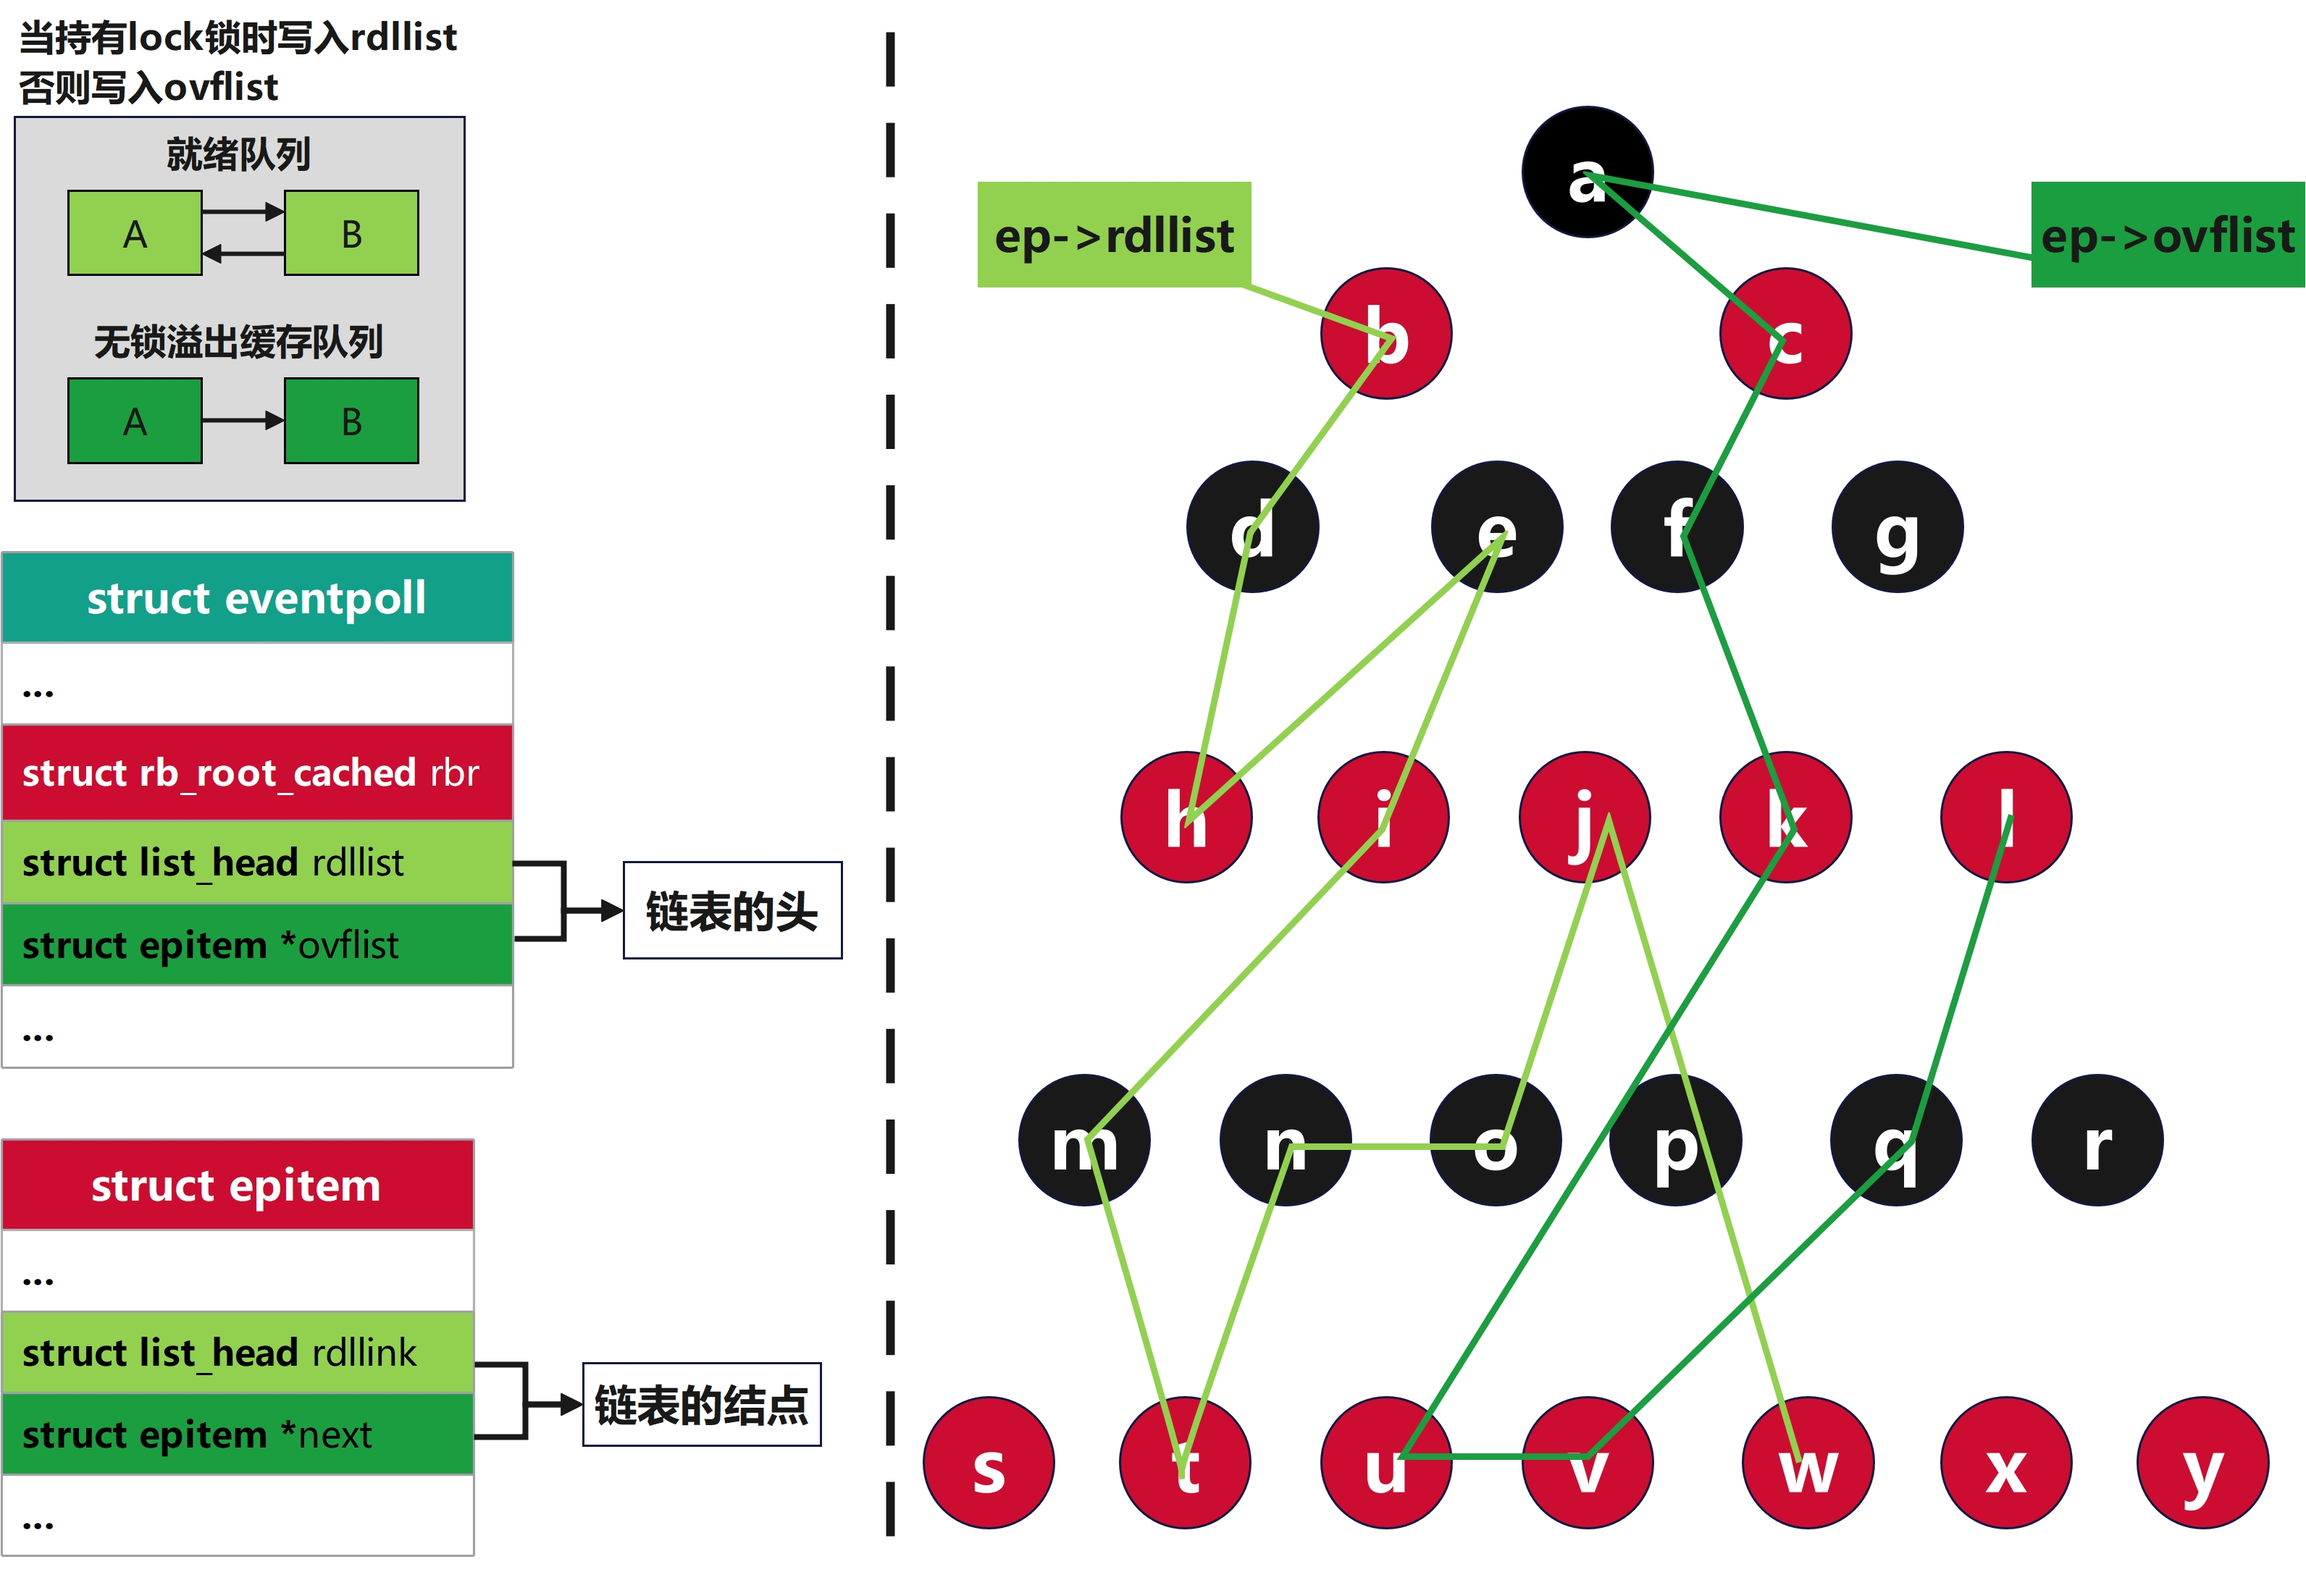
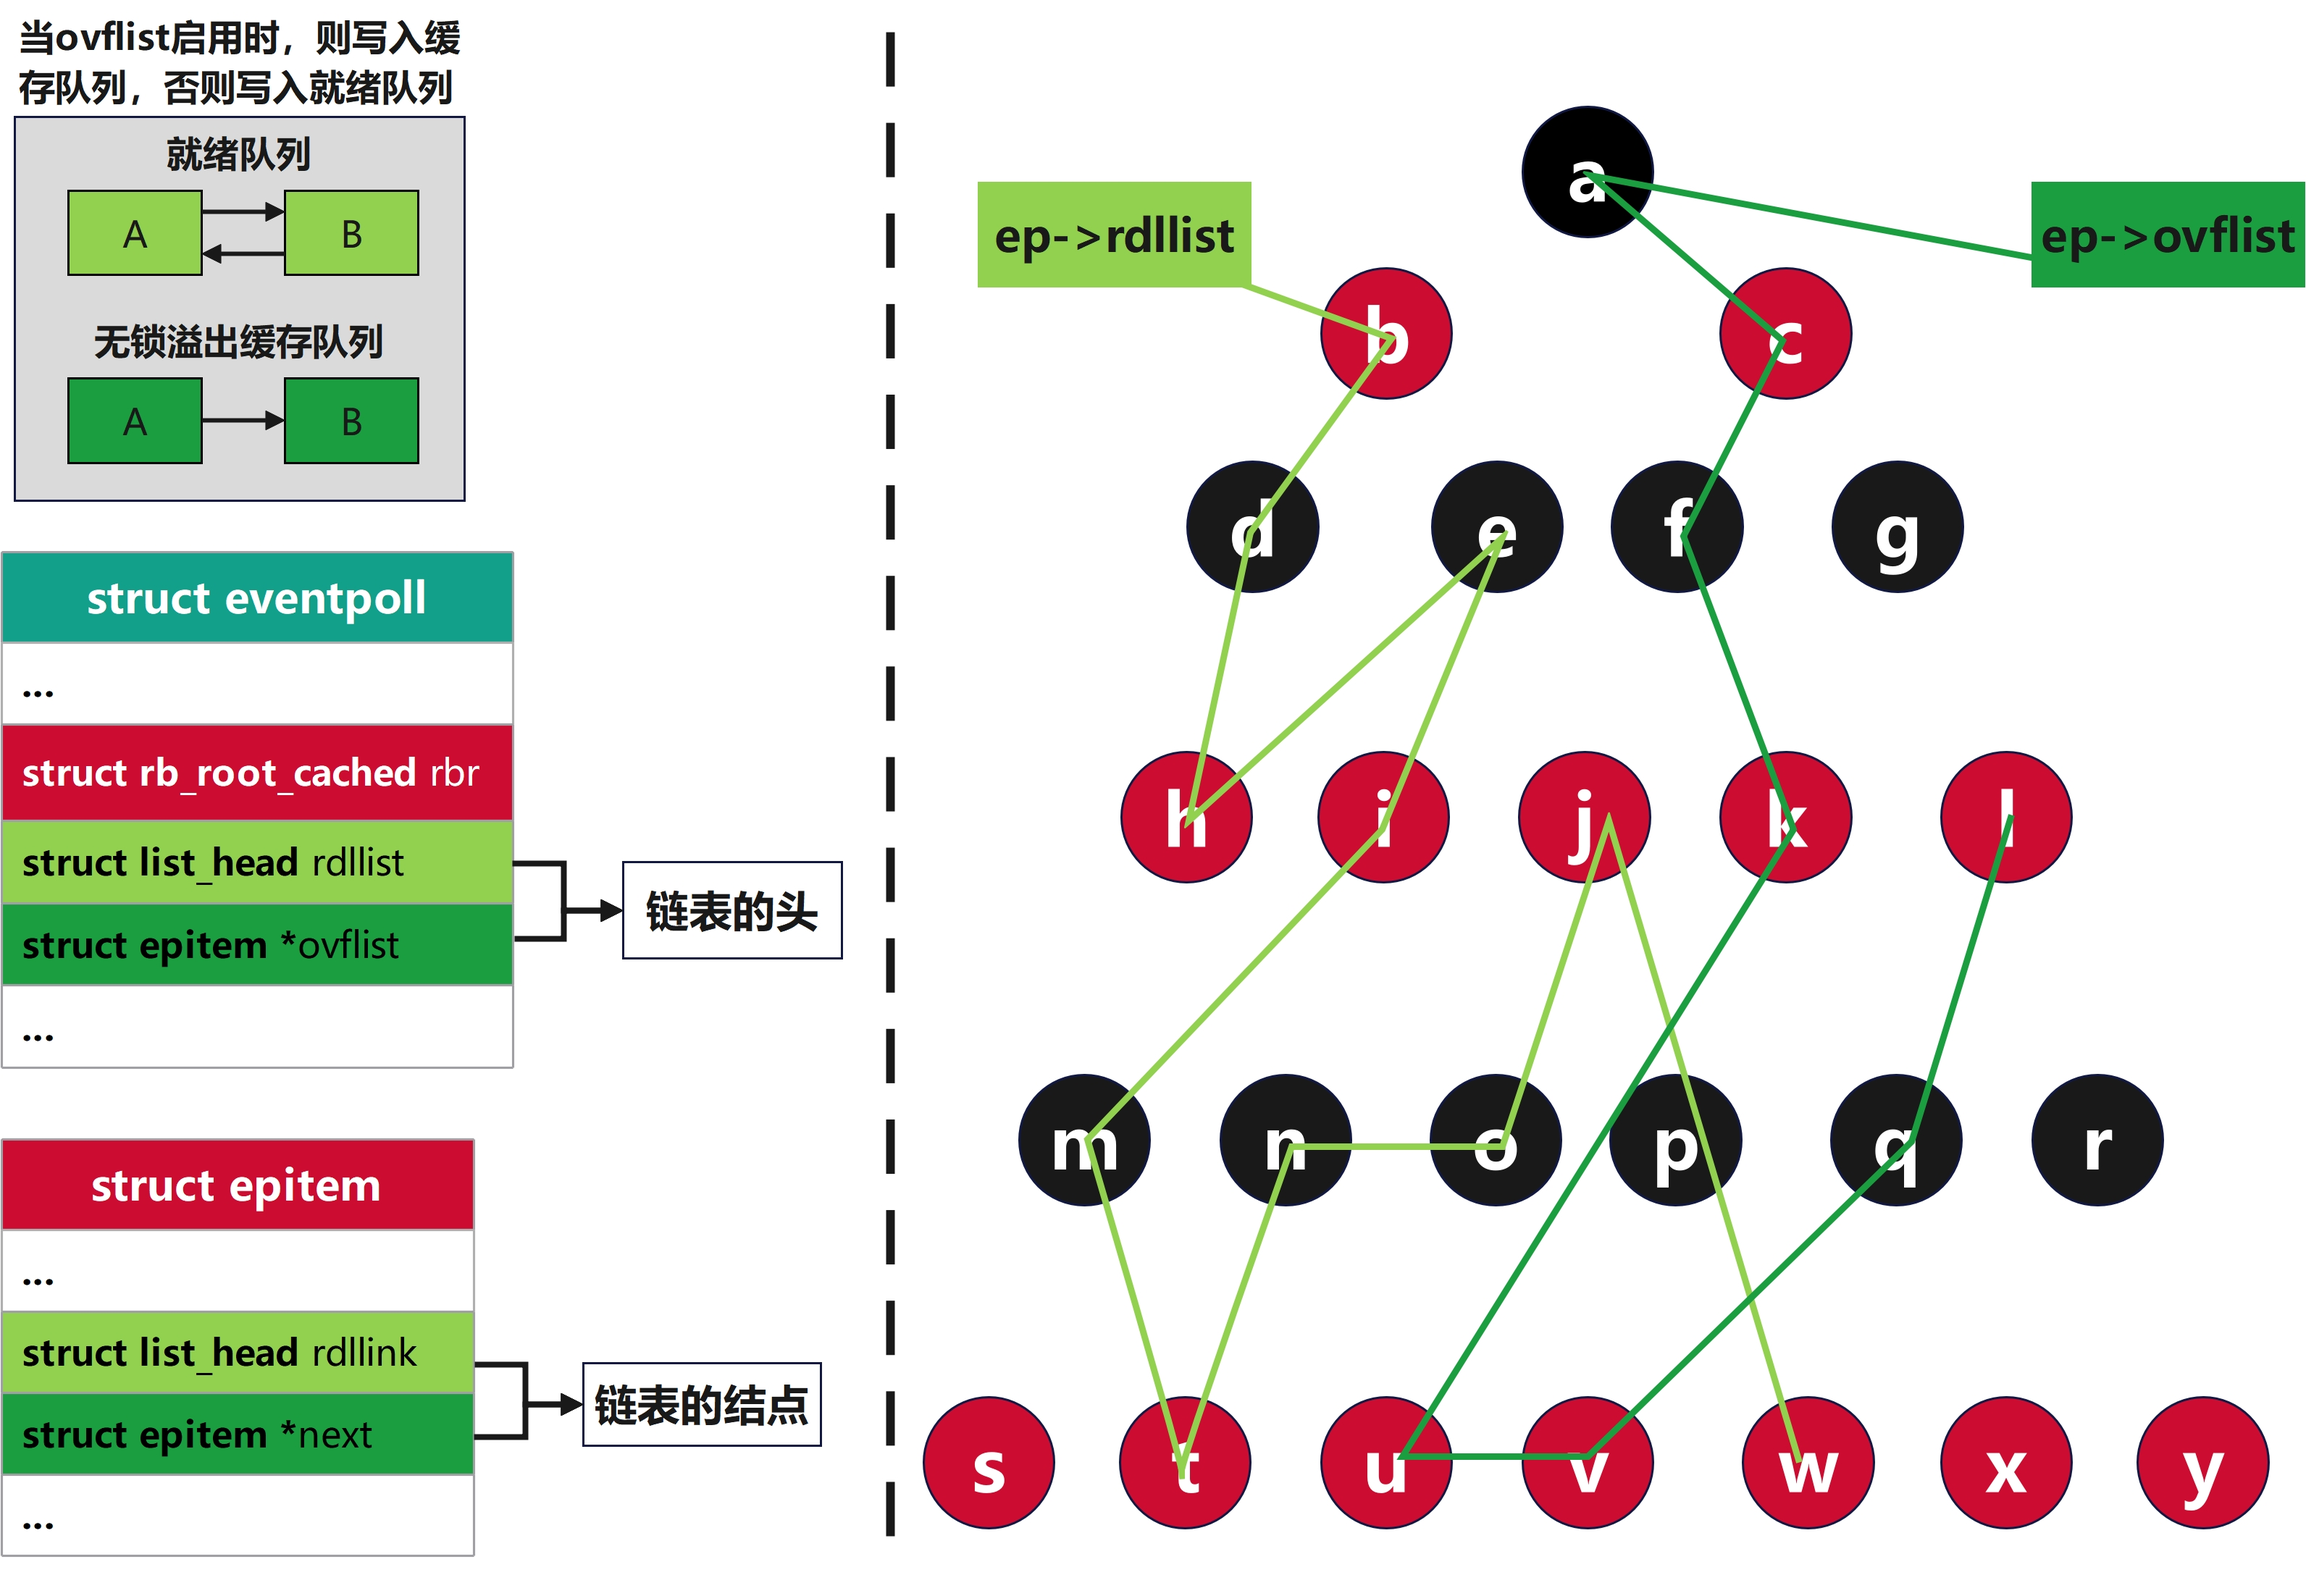
更新

Changed region(s): [[0.0, 0.0, 0.2177, 0.0616]]

diff --git a/06_Linux/03_IO模型/01_IO多路复用模型/02_epoll原理分析/01_epoll接口原理分析.md b/06_Linux/03_IO模型/01_IO多路复用模型/02_epoll原理分析/01_epoll接口原理分析.md
@@ -552,7 +552,7 @@ struct eventpoll {
 
 `struct eventpoll` 是每个`epoll`实例 的核心上下文，创建 `epoll_create*`时分配，挂在对应`struct file`的`private_data`上
 
-`mtx`互斥锁确保`epoll`整体逻辑的完整，`lock`确保`rdllist`队列和`ovflist`队列读写安全，在持有`lock`时就绪事件写入`rdllist`中，没有持有`lock`时发送的就绪事件写入`ovflist`中
+`mtx`互斥锁确保`epoll`整体逻辑的完整，`lock`确保`rdllist`队列和`ovflist`队列读写安全
 
 `wp`队列和`poll_wait`队列都是内核等待队列，`wp`队列向用户态`epoll_wait`调用者提供。`poll_wait`队列则是当向`VFS`系统提供的，当别的代码对这个`epoll`的`file`做 `poll/select`时用的等待队列
 
@@ -594,6 +594,10 @@ struct eventpoll {
 3. `ep_insert`中插入节点后，立刻检查一次，如果有就绪事件，把它推进 `rdllist` 并唤醒等待者
 4. `ep_modify`修改了某个已注册`fd`的 `epoll_event` 之后，立刻检查一次，如果有就绪事件，把它推进 `rdllist` 并唤醒等待者
 5. `ep_free`函数
+
+#### 3) ovflist队列的启用
+
+`ovflist`在初始化和不被启用时会被指向`EP_UNACTIVE_PTR`这个特殊值，在`ep_scan_ready_list`函数中对`rdllist`操作时，这时不能写入`rdllist`。就会先将`ovflist`指向`NULL`，这时后续活跃的句柄就会写入`ovflist`而不是`rdllist`
 
 ### 2. struct epitem
 
@@ -1142,78 +1146,45 @@ send_events:
 
 **ep_poll_callback函数**
 
+> 笔者注：下文代码已格式化处理，并适当简化只保留核心逻辑
+
 ```c++
 static int ep_poll_callback(wait_queue_entry_t *wait, unsigned mode, int sync, void *key)
 {
 	int pwake = 0;
 	struct epitem *epi = ep_item_from_wait(wait);
 	struct eventpoll *ep = epi->ep;
+	/* 本次唤醒携带的就绪事件位,例如 POLLIN、POLLOUT、POLLERR等，也就是底层这次认为发生了哪些poll语义上的事件 */
 	__poll_t pollflags = key_to_poll(key);
 	unsigned long flags;
 	int ewake = 0;
 
 	read_lock_irqsave(&ep->lock, flags);
 
-	ep_set_busy_poll_napi_id(epi);
-
-	/*
-	 * If the event mask does not contain any poll(2) event, we consider the
-	 * descriptor to be disabled. This condition is likely the effect of the
-	 * EPOLLONESHOT bit that disables the descriptor when an event is received,
-	 * until the next EPOLL_CTL_MOD will be issued.
-	 */
-	if (!(epi->event.events & ~EP_PRIVATE_BITS))
-		goto out_unlock;
-
-	/*
-	 * Check the events coming with the callback. At this stage, not
-	 * every device reports the events in the "key" parameter of the
-	 * callback. We need to be able to handle both cases here, hence the
-	 * test for "key" != NULL before the event match test.
-	 */
+	/* 和用户注册的兴趣做交集过滤,如果没有用户感兴趣的事件发生,则不唤醒用户空间的线程 */
 	if (pollflags && !(pollflags & epi->event.events))
 		goto out_unlock;
 
-	/*
-	 * If we are transferring events to userspace, we can hold no locks
-	 * (because we're accessing user memory, and because of linux f_op->poll()
-	 * semantics). All the events that happen during that period of time are
-	 * chained in ep->ovflist and requeued later on.
+	/**
+	 * 当正在把就绪事件从内核交给用户态的那段时间里的那段时间里
+	 * 新来的I/O就绪不能再去动rdllist,只能先挂到ovflist上
 	 */
 	if (READ_ONCE(ep->ovflist) != EP_UNACTIVE_PTR) {
 		if (epi->next == EP_UNACTIVE_PTR &&
 		    chain_epi_lockless(epi))
+			/* 向内核电源管理子系统登记,防止休眠 */
 			ep_pm_stay_awake_rcu(epi);
 		goto out_unlock;
 	}
 
-	/* If this file is already in the ready list we exit soon */
 	if (!ep_is_linked(epi) &&
 	    list_add_tail_lockless(&epi->rdllink, &ep->rdllist)) {
+		/* 向内核电源管理子系统登记,防止休眠 */
 		ep_pm_stay_awake_rcu(epi);
 	}
 
-	/*
-	 * Wake up ( if active ) both the eventpoll wait list and the ->poll()
-	 * wait list.
-	 */
+	/* 如果处于激活状态，同时唤醒事件轮询等待列表和->poll()方法的等待列表 */
 	if (waitqueue_active(&ep->wq)) {
-		if ((epi->event.events & EPOLLEXCLUSIVE) &&
-					!(pollflags & POLLFREE)) {
-			switch (pollflags & EPOLLINOUT_BITS) {
-			case EPOLLIN:
-				if (epi->event.events & EPOLLIN)
-					ewake = 1;
-				break;
-			case EPOLLOUT:
-				if (epi->event.events & EPOLLOUT)
-					ewake = 1;
-				break;
-			case 0:
-				ewake = 1;
-				break;
-			}
-		}
 		wake_up(&ep->wq);
 	}
 	if (waitqueue_active(&ep->poll_wait))
@@ -1222,7 +1193,6 @@ static int ep_poll_callback(wait_queue_entry_t *wait, unsigned mode, int sync, v
 out_unlock:
 	read_unlock_irqrestore(&ep->lock, flags);
 
-	/* We have to call this outside the lock */
 	if (pwake)
 		ep_poll_safewake(&ep->poll_wait);
 
@@ -1230,18 +1200,7 @@ out_unlock:
 		ewake = 1;
 
 	if (pollflags & POLLFREE) {
-		/*
-		 * If we race with ep_remove_wait_queue() it can miss
-		 * ->whead = NULL and do another remove_wait_queue() after
-		 * us, so we can't use __remove_wait_queue().
-		 */
 		list_del_init(&wait->entry);
-		/*
-		 * ->whead != NULL protects us from the race with ep_free()
-		 * or ep_remove(), ep_remove_wait_queue() takes whead->lock
-		 * held by the caller. Once we nullify it, nothing protects
-		 * ep/epi or even wait.
-		 */
 		smp_store_release(&ep_pwq_from_wait(wait)->whead, NULL);
 	}
 
@@ -1250,6 +1209,8 @@ out_unlock:
 ```
 
 **核心思想**
+
+根据`ovflist`的状态,将新活跃的事件添加到就绪队列或者缓存队列中
 
 ![ep_poll_callback](./img/ep_poll_callback.jpg)
 
@@ -1915,7 +1876,7 @@ static const struct file_operations proc_rtas_log_operations = {
 
 **1) 用户态将文件描述符传入内核的方式**
 
-- `select`：创建3个文件描述符集并拷贝到内核中，分别监听读、写、异常动作。这里受到单个进程可以打开的`fd`数量限制，默认是`1024`
+- `select`：创建`3`个文件描述符集并拷贝到内核中，分别监听读、写、异常动作。这里受到单个进程可以打开的`fd`数量限制，默认是`1024`
 - `poll`：将传入的`struct pollfd`结构体数组拷贝到内核中进行监听
 - `epoll`：执行`epoll_create`会在内核的高速`cache`区中建立一颗红黑树以及就绪链表(该链表存储已经就绪的文件描述符)。接着用户执行的`epoll_ctl`函数添加文件描述符会在红黑树上增加相应的结点
 
